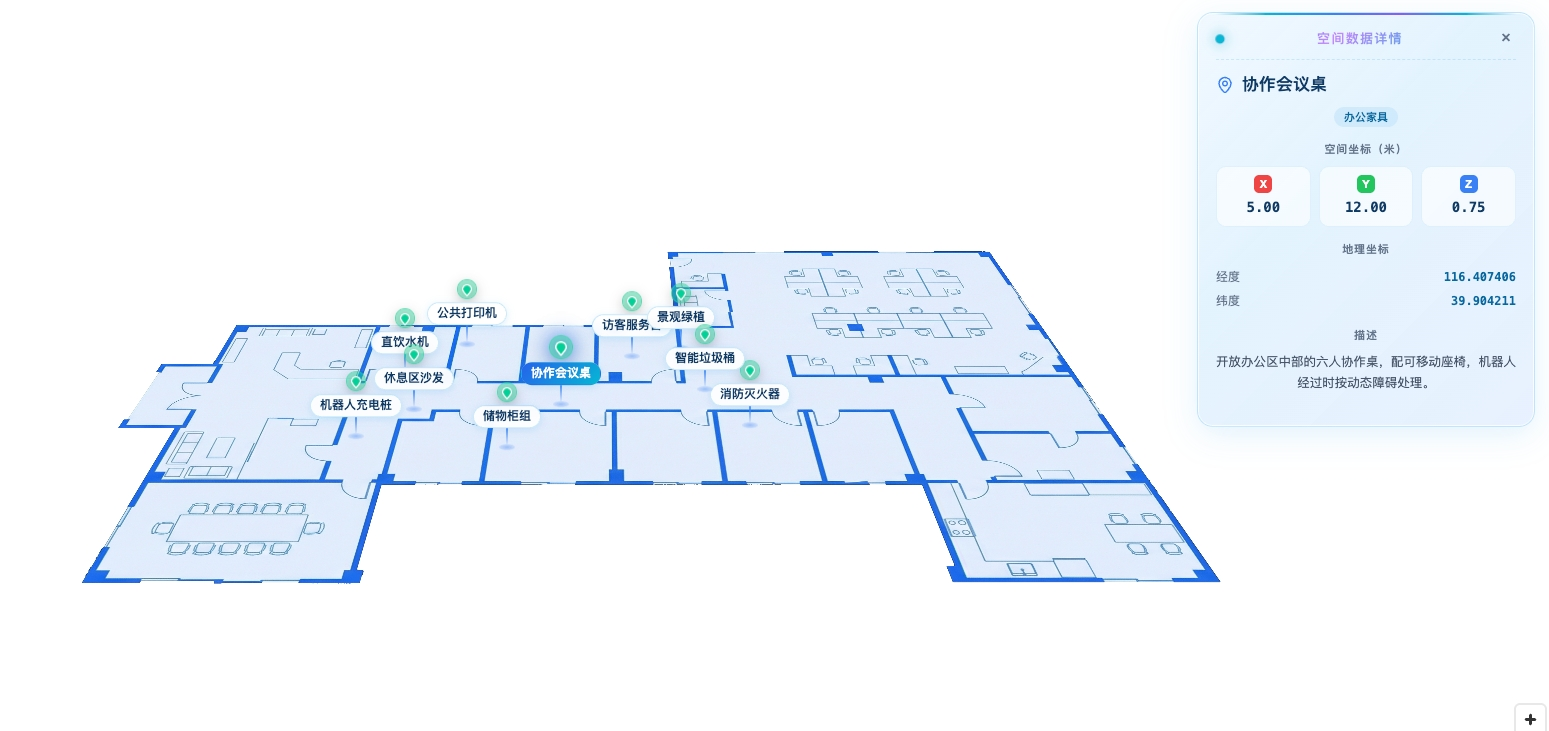
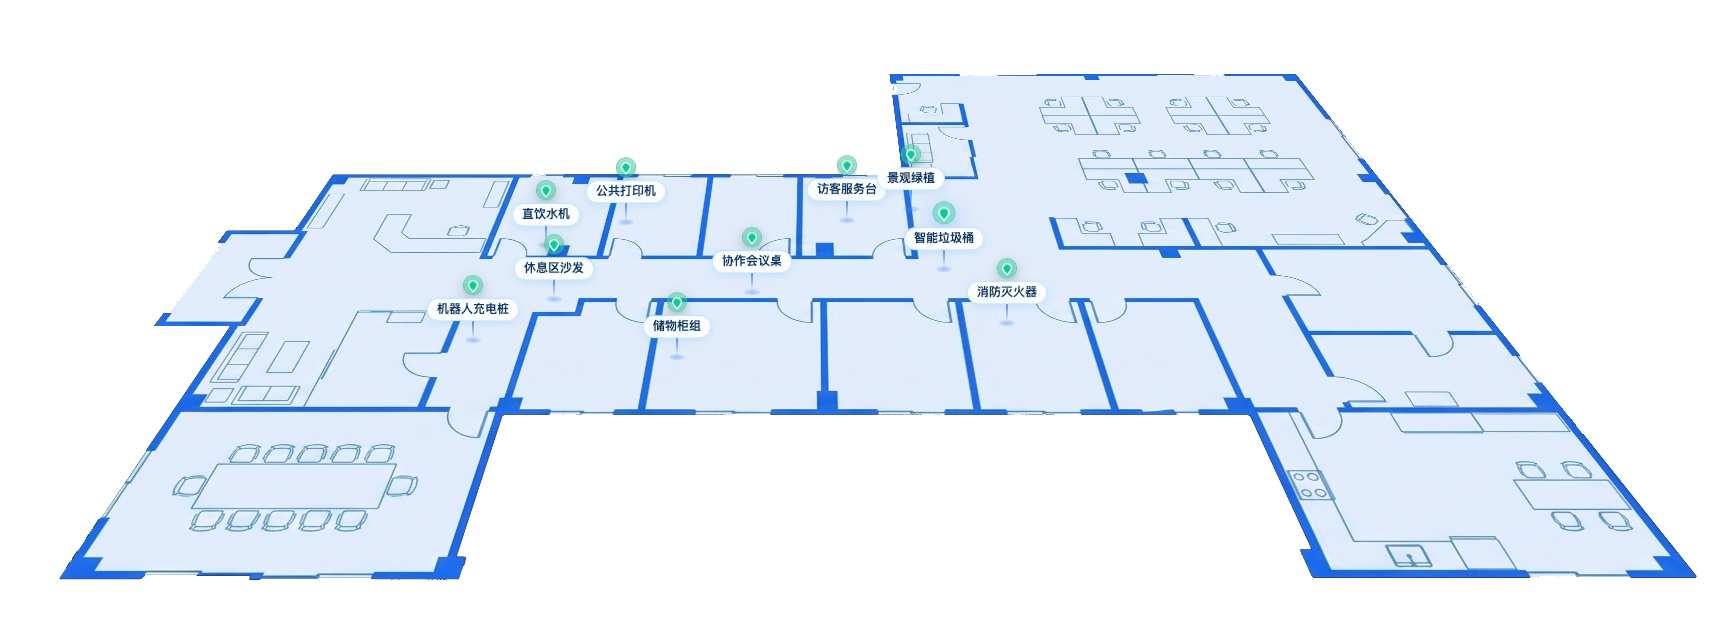
封面图

diff --git a/src/examples/indoor/load3dMarker/constants.js b/src/examples/indoor/load3dMarker/constants.js
@@ -78,7 +78,7 @@ export const SPATIAL_ITEMS = [
     id: 'sm-07',
     name: '公共打印机',
     category: '办公设备',
-    coordinate: { x: -6.0, y: 25.0, z: 0.9 },
+    coordinate: { x: -6.0, y: 22.0, z: 0.9 },
     description: '北墙公共多功能打印一体机，文件配送任务的常用取送点之一。'
   },
   {
